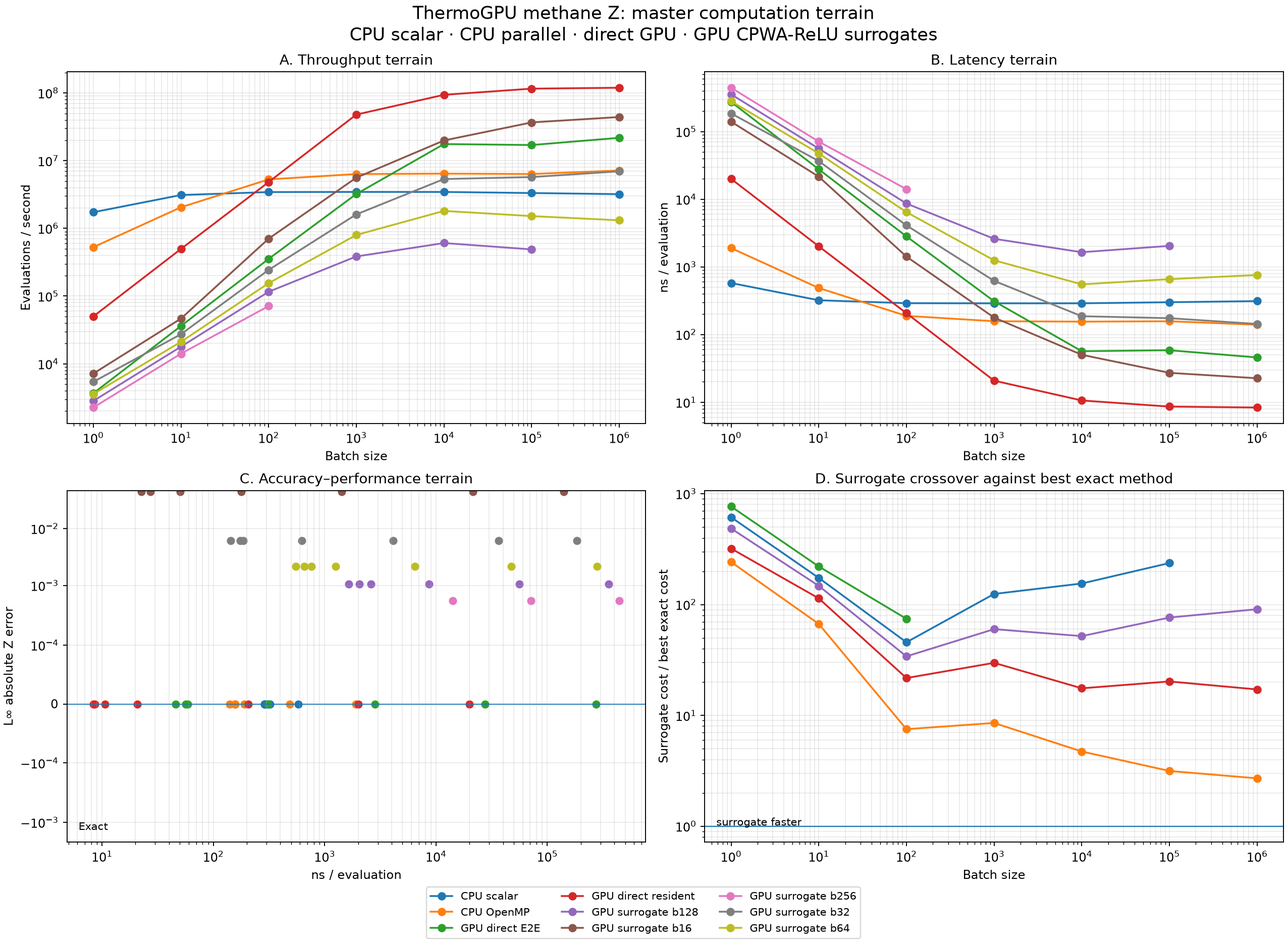
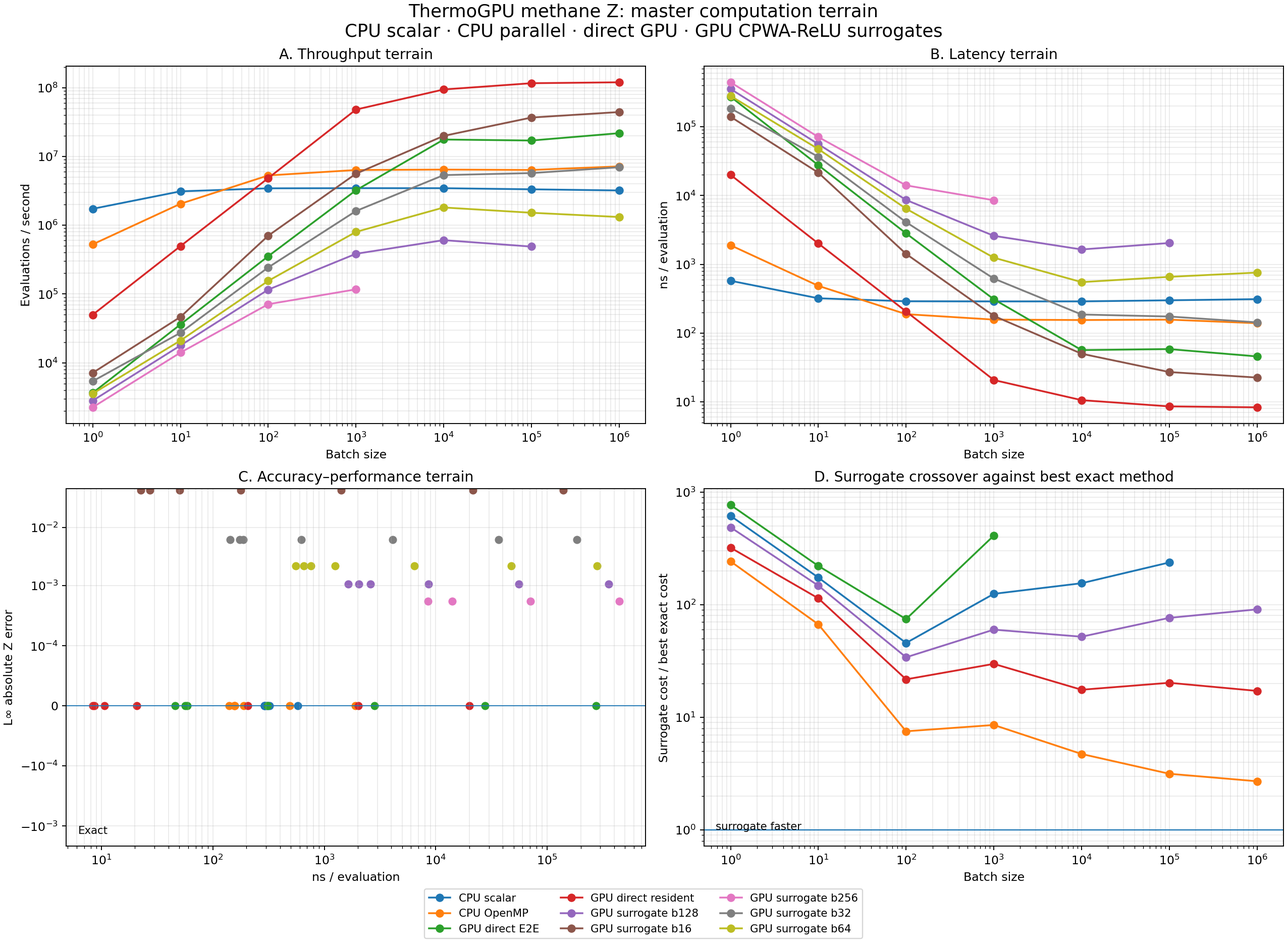
Complete ThermoGPU V1 report

diff --git a/case-studies/thermogpu/scripts/generate_report.py b/case-studies/thermogpu/scripts/generate_report.py
@@ -1,5 +1,5 @@
 #!/usr/bin/env python3
-"""Generate the ThermoGPU V1 report from retained processed evidence."""
+"""Generate the ThermoGPU V1 engineering report from retained derived evidence."""
 from __future__ import annotations
 
 import argparse
@@ -16,54 +16,111 @@ def read_csv(path: Path) -> list[dict[str, str]]:
         return list(csv.DictReader(f))
 
 
-def fmt(x: str | float, digits=4) -> str:
-    return f"{float(x):.{digits}g}"
+def fmt(value: str | float, digits: int = 4) -> str:
+    return f"{float(value):.{digits}g}"
+
+
+def yesno(value: bool) -> str:
+    return "yes" if value else "no"
 
 
 def main() -> None:
-    p = argparse.ArgumentParser()
+    p = argparse.ArgumentParser(description=__doc__)
     p.add_argument("--direct", type=Path, default=STUDY / "processed-results/direct-methane.csv")
     p.add_argument("--accuracy", type=Path, default=STUDY / "processed-results/surrogate-accuracy.csv")
-    p.add_argument("--performance", type=Path, default=STUDY / "processed-results/surrogate-performance.csv")
+    p.add_argument("--terrain", type=Path, default=STUDY / "processed-results/master-performance-terrain.csv")
+    p.add_argument("--feasibility", type=Path, default=STUDY / "processed-results/feasibility-analysis.csv")
+    p.add_argument("--summary", type=Path, default=STUDY / "processed-results/study-summary.json")
     p.add_argument("--environment", type=Path, default=STUDY / "raw-results/environment.json")
     p.add_argument("--output", type=Path, default=STUDY / "reports/thermogpu-v1.md")
     args = p.parse_args()
-    required = [args.direct, args.accuracy, args.performance, args.environment]
-    missing = [str(x) for x in required if not x.exists()]
+
+    required = [args.direct, args.accuracy, args.terrain, args.feasibility, args.summary, args.environment]
+    missing = [str(path) for path in required if not path.exists()]
     if missing:
         raise SystemExit("cannot generate complete report; missing:\n" + "\n".join(missing))
 
     direct = read_csv(args.direct)
     accuracy = read_csv(args.accuracy)
-    perf = read_csv(args.performance)
+    terrain = read_csv(args.terrain)
+    feasibility = read_csv(args.feasibility)
+    summary = json.loads(args.summary.read_text())
     env = json.loads(args.environment.read_text())
+
+    analysis = summary["analysis"]
+    conclusions = summary["conclusions"]
+    rep = conclusions["representation_scaling"]
+    acc_scale = conclusions["accuracy_cost_scaling"]
+    suff = conclusions["measurement_sufficiency"]
     repos = env.get("repositories", {})
+
+    surrogate_rows = [r for r in terrain if r["backend"] == "gpu_surrogate"]
+    measured = [r for r in feasibility if r["status"] == "complete"]
+    failures = [r for r in feasibility if r["status"] == "resource_failure"]
+    deferred = [r for r in feasibility if r["status"] == "deferred"]
 
     lines = [
         "# ThermoGPU Methane-Z Engineering Surrogate Case Study", "",
-        "> Generated from retained case-study evidence. Do not edit measured values by hand.", "",
-        "## Scope", "",
-        "This V1 study compares direct Peng–Robinson methane compressibility-factor evaluation with TDAR → simplicial CPWA → exact CPWA-ReLU surrogate evaluation over the frozen temperature/pressure domain.", "",
+        "> Generated from retained case-study evidence. Measured values and conclusions are derived; do not edit them by hand.", "",
+        "## Executive result", "",
+        "This V1 study tested whether an adaptively constructed TDAR simplicial CPWA surrogate, compiled to an exact CPWA-ReLU DAG and executed on the GPU, provides a computational advantage over direct Peng–Robinson methane compressibility-factor evaluation on the tested hardware and workload range.", "",
+        f"It did not. All **{conclusions['dominance_comparisons']}** measured surrogate operating points were dominated by the fastest exact method at the same batch size, and **{conclusions['surrogate_global_pareto_points']}** surrogate points appeared on the conventional global speed/error Pareto frontier. The result is therefore a negative performance result for this measured case, not a claim that CPWA surrogates are generally ineffective.", "",
+        "## Scope and frozen design", "",
+        "The study compares direct methane-Z evaluation with the pipeline **TDAR → simplicial CPWA → exact CPWA-ReLU DAG → GPU execution**. Surrogate budgets are 16, 32, 64, 128, and 256 points; benchmark batches are 1, 10, 100, 1,000, 10,000, 100,000, and 1,000,000 states. Accuracy is evaluated against the frozen common validation set.", "",
+        "The interpretation is empirical and restricted to the tested ThermoGPU methane-Z problem, domain, surrogate construction, execution policies, hardware, budgets, batches, and accuracy range. Fitted power-law exponents below describe measured-range trends; they are not asymptotic complexity theorems.", "",
         "## Frozen provenance", "",
         "| Repository | Version | Commit | Dirty |", "|---|---|---|---|",
     ]
     for name in ("ThermoGPU", "TDAR", "CPWA-ReLU", "case-study"):
         r = repos.get(name, {})
-        lines.append(f"| {name} | {r.get('describe','—')} | `{str(r.get('commit','—'))[:12]}` | {r.get('dirty','—')} |")
+        lines.append(f"| {name} | {r.get('describe', '—')} | `{str(r.get('commit', '—'))[:12]}` | {r.get('dirty', '—')} |")
 
-    lines += ["", "## Direct-model performance", "", "| Batch | Scalar ns/state | Best OpenMP ns/state | Threads | CUDA resident ns/state | CUDA end-to-end ns/state |", "|---:|---:|---:|---:|---:|---:|"]
-    for r in direct:
-        lines.append(f"| {r['batch']} | {fmt(r['scalar_ns'])} | {fmt(r['best_openmp_ns'])} | {r['best_openmp_threads']} | {fmt(r['cuda_resident_ns'])} | {fmt(r['cuda_e2e_ns'])} |")
+    lines += ["", "## Exact implementation crossover", "",
+              "The preferred exact implementation changes with workload size:", "",
+              "| Batch | Preferred exact method | ns/eval | Runner-up | Speedup vs runner-up |", "|---:|---|---:|---|---:|"]
+    for r in analysis["exact_crossover"]:
+        lines.append(f"| {r['batch_size']:,} | {r['preferred_exact_method']} | {fmt(r['ns_per_eval'])} | {r['runner_up']} | {fmt(r['speedup_vs_runner_up'])}× |")
+    lines += ["", "Scalar CPU is best at batches 1 and 10, OpenMP at 100, and resident direct GPU evaluation from batch 1,000 onward. At batch 1,000,000 the resident direct GPU reaches approximately " + fmt(analysis["exact_crossover"][-1]["evaluations_per_second"] / 1e6) + " million evaluations/s.", ""]
 
-    lines += ["", "## Surrogate accuracy", "", "| Budget | Simplices | RMSE | p99 abs. error | L∞ error | TDAR build s |", "|---:|---:|---:|---:|---:|---:|"]
+    lines += ["## Surrogate accuracy and representation growth", "",
+              "| Budget | Simplices | Total DAG nodes | RMSE | p99 abs. error | L∞ error |", "|---:|---:|---:|---:|---:|---:|"]
+    dag_by_budget = {int(r["budget"]): r for r in analysis["dag_scaling"]}
     for r in accuracy:
-        lines.append(f"| {r['budget']} | {r['simplices']} | {fmt(r['rmse'])} | {fmt(r['p99_abs'])} | {fmt(r['linf'])} | {fmt(r['tdar_seconds'])} |")
+        dag = dag_by_budget[int(r["budget"])]
+        lines.append(f"| {r['budget']} | {r['simplices']} | {dag['total_nodes']} | {fmt(r['rmse'])} | {fmt(r['p99_abs'])} | {fmt(r['linf'])} |")
+    lines += ["", f"Across the five measured budgets, simplices scale approximately as budget^{fmt(rep['simplices_vs_budget_exponent'])}, while total DAG nodes scale approximately as budget^{fmt(rep['total_nodes_vs_budget_exponent'])}. L∞ error scales approximately as budget^{fmt(acc_scale['linf_vs_budget_exponent'])}. Thus accuracy improves materially, but the exact DAG representation grows substantially faster than the simplex count.", "",
+              f"Measured steady-state execution time scales approximately as total_nodes^{fmt(rep['steady_state_time_vs_total_nodes_exponent'])} and as L∞^{fmt(acc_scale['steady_state_time_vs_linf_exponent'])} over this range. These are empirical fits only.", ""]
 
-    lines += ["", "## Exact CPWA-ReLU GPU performance", "", "The table below reports the empirically selected execution policy at each measured budget/batch operating point.", "", "| Budget | Batch | Policy | ns/eval | M eval/s |", "|---:|---:|---|---:|---:|"]
-    for r in sorted(perf, key=lambda x: (int(x['budget']), int(x['batch']))):
-        lines.append(f"| {r['budget']} | {r['batch']} | `{r['policy']}` | {fmt(r['ns_per_eval'])} | {float(r['evaluations_per_second'])/1e6:.4g} |")
+    lines += ["## Performance and Pareto result", "",
+              f"The unified terrain contains **{len(surrogate_rows)}** measured surrogate operating points. **{conclusions['measured_surrogate_points_dominated_by_best_exact_same_batch']}/{conclusions['dominance_comparisons']}** are dominated by the best exact method at the same batch size. The conventional global Pareto set contains **{conclusions['surrogate_global_pareto_points']}** surrogate points.", "",
+              "This means the surrogate does not buy speed in exchange for approximation error in the measured regime: an exact implementation is already faster at every directly compared workload size.", "",
+              "![Master performance terrain](../figures/master-performance-terrain.png)", "",
+              "![Batch-conditioned and conventional Pareto frontiers](../figures/pareto-frontier.png)", ""]
 
-    lines += ["", "## Figures", "", "![Direct throughput versus batch](../figures/direct-throughput-vs-batch.png)", "", "![Surrogate accuracy versus budget](../figures/surrogate-accuracy-vs-budget.png)", "", "![Exact CPWA-ReLU throughput versus batch](../figures/surrogate-throughput-vs-batch.png)", "", "## Reproduction", "", "Run the resumable local pipeline from the repository root:", "", "```bash", "python case-studies/thermogpu/scripts/run_study.py", "```", "", "GPU calibration and surrogate benchmarking deliberately use the CPWA-ReLU virtual-environment Python so the frozen GPU-enabled JAX installation is used. Completed stages are skipped unless `--force` is supplied.", ""]
+    lines += ["## Feasibility boundary and measurement sufficiency", "",
+              f"The frozen 5 × 7 design contains {analysis['measurement_total']} surrogate cells: **{len(measured)} complete**, **{len(failures)} documented resource failure**, and **{len(deferred)} explicitly deferred**.", ""]
+    if failures:
+        for r in failures:
+            lines.append(f"Budget {r['budget']} at batch {int(r['batch_size']):,} failed because of `{r['failure_kind']}` on `{r['hardware']}`; the retained failure record is `{r['evidence']}`.")
+        lines.append("")
+    if deferred:
+        cells = ", ".join(f"B{r['budget']}×{int(r['batch_size']):,}" for r in deferred)
+        lines += [f"The deliberately deferred cells are {cells}. They were not required to establish the V1 conclusion because every measured surrogate point was already dominated, no surrogate was globally Pareto-optimal, and no unclassified pending cells remained.", ""]
+    lines += [f"Measurement sufficiency for the current V1 conclusion: **{yesno(suff['sufficient_for_current_v1_conclusion'])}**. Additional measurements required for that conclusion: **{yesno(suff['additional_measurements_required_for_current_conclusion'])}**.", ""]
+
+    lines += ["## Engineering interpretation", "",
+              "The principal engineering result is that the direct evaluator is already sufficiently efficient that replacing it with this exact CPWA-ReLU realization does not reduce evaluation cost. Increasing surrogate accuracy increases simplicial and DAG complexity, and the execution cost rises enough to erase the usual motivation for a surrogate.", "",
+              "The negative result is useful because it identifies where future work should focus: not on assuming that approximation is faster, but on measuring the complete representation-and-execution chain and comparing it against the best workload-conditioned exact implementation. A different thermodynamic problem, dimensionality, hardware target, surrogate representation, or execution strategy may produce a different crossover.", "",
+              "## Limitations", "",
+              "V1 studies one methane compressibility-factor map on one measured hardware configuration. It does not establish asymptotic scaling, generalize the measured power-law fits beyond the sampled budgets, or prove that other EOS mixtures, higher-dimensional thermodynamic maps, alternative CPWA constructions, reduced DAG representations, accelerators, or execution policies cannot benefit from surrogates. The B256 large-batch cells were deliberately deferred after the V1 conclusion became measurement-sufficient.", "",
+              "## Supporting figures", "",
+              "![Direct throughput versus batch](../figures/direct-throughput-vs-batch.png)", "",
+              "![Surrogate accuracy versus budget](../figures/surrogate-accuracy-vs-budget.png)", "",
+              "## Reproduction", "",
+              "The scientific results, publication figures, analyses, and this report can be regenerated from retained experimental evidence without rerunning expensive evidence-producing GPU experiments:", "",
+              "```bash", "/nvme/Sync/cpwa-relu/.venv/bin/python \\", "  case-studies/thermogpu/scripts/run_study.py \\", "  --config case-studies/thermogpu/configs/study-v1.toml \\", "  --reproduce", "```", "",
+              "In reproduction mode, evidence-producing stages are retained and validated; derived processing, figures, Pareto construction, analysis, and report generation are rerun. Legacy surrogate-performance aggregate stages are intentionally omitted because the authoritative V1 performance analysis consumes the retained per-cell calibration evidence directly.", ""]
+
     args.output.parent.mkdir(parents=True, exist_ok=True)
     args.output.write_text("\n".join(lines))
     print(args.output)

diff --git a/tests/test_thermogpu_pipeline.py b/tests/test_thermogpu_pipeline.py
@@ -476,3 +476,47 @@ def test_legacy_surrogate_benchmark_is_not_required_reproduction_evidence():
         "legacy aggregate not required; authoritative performance evidence "
         "is retained by calibrate"
     ]
+
+
+def test_reproduction_pipeline_includes_master_figures_before_report():
+    m = load_module()
+
+    class Args:
+        config = ROOT / "case-studies/thermogpu/configs/study-v1.toml"
+        thermogpu_root = Path("/nvme/Sync/ThermoGPU")
+        tdar_root = Path("/nvme/Sync/tdar")
+        cpwa_relu_root = Path("/nvme/Sync/cpwa-relu")
+        cpwa_python = Path("/nvme/Sync/cpwa-relu/.venv/bin/python")
+        dtype = "float32"
+        repeats = 7
+        warmup = 2
+        calibration_seed = 20261004
+        benchmark_seed = 20261005
+
+    stages = m.build_stages(Args())
+    names = [stage.name for stage in stages]
+
+    assert names.index("master-pareto") < names.index("master-plot")
+    assert names.index("master-plot") < names.index("report")
+    assert names.index("pareto-plot") < names.index("report")
+    assert any(
+        str(path).endswith("master-performance-terrain.png")
+        for path in stages[names.index("master-plot")].outputs
+    )
+    assert any(
+        str(path).endswith("pareto-frontier.png")
+        for path in stages[names.index("pareto-plot")].outputs
+    )
+
+
+def test_report_generator_uses_authoritative_m12_outputs():
+    script = (
+        ROOT
+        / "case-studies/thermogpu/scripts/generate_report.py"
+    ).read_text()
+
+    assert "study-summary.json" in script
+    assert "master-performance-terrain.csv" in script
+    assert "feasibility-analysis.csv" in script
+    assert "surrogate-performance.csv" not in script
+    assert "--reproduce" in script

diff --git a/case-studies/thermogpu/scripts/run_study.py b/case-studies/thermogpu/scripts/run_study.py
@@ -103,6 +103,12 @@ def build_stages(args) -> list[Stage]:
         Stage("master-pareto", "construct the unified exact/surrogate performance terrain",
               [py, str(SCRIPTS / "process_master_pareto.py")],
               (PROCESSED / "master-performance-terrain.csv", PROCESSED / "master-pareto-global.csv", PROCESSED / "surrogate-pareto.csv")),
+        Stage("master-plot", "plot the unified exact/surrogate performance terrain",
+              [py, str(SCRIPTS / "plot_master_pareto.py")],
+              (FIGURES / "master-performance-terrain.png",)),
+        Stage("pareto-plot", "plot batch-conditioned and conventional Pareto frontiers",
+              [py, str(SCRIPTS / "plot_pareto_frontier.py")],
+              (FIGURES / "pareto-frontier.png",)),
         Stage("analysis", "derive crossover, accuracy-cost, dominance, DAG-scaling, and feasibility results",
               [py, str(SCRIPTS / "analyze_study.py")],
               (PROCESSED / "exact-crossover.csv", PROCESSED / "surrogate-accuracy-cost.csv", PROCESSED / "dominance-analysis.csv", PROCESSED / "dag-scaling.csv", PROCESSED / "scaling-analysis.csv", PROCESSED / "feasibility-analysis.csv", PROCESSED / "study-summary.json")),

diff --git a/case-studies/thermogpu/reports/thermogpu-v1.md b/case-studies/thermogpu/reports/thermogpu-v1.md
@@ -1,0 +1,103 @@
+# ThermoGPU Methane-Z Engineering Surrogate Case Study
+
+> Generated from retained case-study evidence. Measured values and conclusions are derived; do not edit them by hand.
+
+## Executive result
+
+This V1 study tested whether an adaptively constructed TDAR simplicial CPWA surrogate, compiled to an exact CPWA-ReLU DAG and executed on the GPU, provides a computational advantage over direct Peng–Robinson methane compressibility-factor evaluation on the tested hardware and workload range.
+
+It did not. All **31** measured surrogate operating points were dominated by the fastest exact method at the same batch size, and **0** surrogate points appeared on the conventional global speed/error Pareto frontier. The result is therefore a negative performance result for this measured case, not a claim that CPWA surrogates are generally ineffective.
+
+## Scope and frozen design
+
+The study compares direct methane-Z evaluation with the pipeline **TDAR → simplicial CPWA → exact CPWA-ReLU DAG → GPU execution**. Surrogate budgets are 16, 32, 64, 128, and 256 points; benchmark batches are 1, 10, 100, 1,000, 10,000, 100,000, and 1,000,000 states. Accuracy is evaluated against the frozen common validation set.
+
+The interpretation is empirical and restricted to the tested ThermoGPU methane-Z problem, domain, surrogate construction, execution policies, hardware, budgets, batches, and accuracy range. Fitted power-law exponents below describe measured-range trends; they are not asymptotic complexity theorems.
+
+## Frozen provenance
+
+| Repository | Version | Commit | Dirty |
+|---|---|---|---|
+| ThermoGPU | v1.1.0 | `180bbcb0eb70` | False |
+| TDAR | v0.3.0 | `527144927bda` | False |
+| CPWA-ReLU | v0.2.0 | `6ac34968992a` | False |
+| case-study | thermogpu-spec-v1-1-gf83f38f | `f83f38f07ed5` | True |
+
+## Exact implementation crossover
+
+The preferred exact implementation changes with workload size:
+
+| Batch | Preferred exact method | ns/eval | Runner-up | Speedup vs runner-up |
+|---:|---|---:|---|---:|
+| 1 | CPU scalar | 577.1 | CPU OpenMP | 3.284× |
+| 10 | CPU scalar | 321.3 | CPU OpenMP | 1.517× |
+| 100 | CPU OpenMP | 188.8 | GPU direct resident | 1.095× |
+| 1,000 | GPU direct resident | 20.82 | CPU OpenMP | 7.557× |
+| 10,000 | GPU direct resident | 10.62 | GPU direct E2E | 5.342× |
+| 100,000 | GPU direct resident | 8.615 | GPU direct E2E | 6.806× |
+| 1,000,000 | GPU direct resident | 8.353 | GPU direct E2E | 5.492× |
+
+Scalar CPU is best at batches 1 and 10, OpenMP at 100, and resident direct GPU evaluation from batch 1,000 onward. At batch 1,000,000 the resident direct GPU reaches approximately 119.7 million evaluations/s.
+
+## Surrogate accuracy and representation growth
+
+| Budget | Simplices | Total DAG nodes | RMSE | p99 abs. error | L∞ error |
+|---:|---:|---:|---:|---:|---:|
+| 16 | 26 | 101 | 0.005051 | 0.02466 | 0.04457 |
+| 32 | 52 | 462 | 0.001287 | 0.003605 | 0.006192 |
+| 64 | 108 | 1826 | 0.0005389 | 0.001528 | 0.002171 |
+| 128 | 221 | 6383 | 0.0002588 | 0.0007616 | 0.001061 |
+| 256 | 464 | 24706 | 0.0001106 | 0.0003247 | 0.0005366 |
+
+Across the five measured budgets, simplices scale approximately as budget^1.04, while total DAG nodes scale approximately as budget^1.966. L∞ error scales approximately as budget^-1.53. Thus accuracy improves materially, but the exact DAG representation grows substantially faster than the simplex count.
+
+Measured steady-state execution time scales approximately as total_nodes^0.6741 and as L∞^-0.8245 over this range. These are empirical fits only.
+
+## Performance and Pareto result
+
+The unified terrain contains **31** measured surrogate operating points. **31/31** are dominated by the best exact method at the same batch size. The conventional global Pareto set contains **0** surrogate points.
+
+This means the surrogate does not buy speed in exchange for approximation error in the measured regime: an exact implementation is already faster at every directly compared workload size.
+
+![Master performance terrain](../figures/master-performance-terrain.png)
+
+![Batch-conditioned and conventional Pareto frontiers](../figures/pareto-frontier.png)
+
+## Feasibility boundary and measurement sufficiency
+
+The frozen 5 × 7 design contains 35 surrogate cells: **31 complete**, **1 documented resource failure**, and **3 explicitly deferred**.
+
+Budget 128 at batch 1,000,000 failed because of `gpu_memory` on `gpu:cuda:0`; the retained failure record is `case-studies/thermogpu/raw-results/surrogate-performance/budget-128/calibration/float32-b1000000.failed.json`.
+
+The deliberately deferred cells are B256×10,000, B256×100,000, B256×1,000,000. They were not required to establish the V1 conclusion because every measured surrogate point was already dominated, no surrogate was globally Pareto-optimal, and no unclassified pending cells remained.
+
+Measurement sufficiency for the current V1 conclusion: **yes**. Additional measurements required for that conclusion: **no**.
+
+## Engineering interpretation
+
+The principal engineering result is that the direct evaluator is already sufficiently efficient that replacing it with this exact CPWA-ReLU realization does not reduce evaluation cost. Increasing surrogate accuracy increases simplicial and DAG complexity, and the execution cost rises enough to erase the usual motivation for a surrogate.
+
+The negative result is useful because it identifies where future work should focus: not on assuming that approximation is faster, but on measuring the complete representation-and-execution chain and comparing it against the best workload-conditioned exact implementation. A different thermodynamic problem, dimensionality, hardware target, surrogate representation, or execution strategy may produce a different crossover.
+
+## Limitations
+
+V1 studies one methane compressibility-factor map on one measured hardware configuration. It does not establish asymptotic scaling, generalize the measured power-law fits beyond the sampled budgets, or prove that other EOS mixtures, higher-dimensional thermodynamic maps, alternative CPWA constructions, reduced DAG representations, accelerators, or execution policies cannot benefit from surrogates. The B256 large-batch cells were deliberately deferred after the V1 conclusion became measurement-sufficient.
+
+## Supporting figures
+
+![Direct throughput versus batch](../figures/direct-throughput-vs-batch.png)
+
+![Surrogate accuracy versus budget](../figures/surrogate-accuracy-vs-budget.png)
+
+## Reproduction
+
+The scientific results, publication figures, analyses, and this report can be regenerated from retained experimental evidence without rerunning expensive evidence-producing GPU experiments:
+
+```bash
+/nvme/Sync/cpwa-relu/.venv/bin/python \
+  case-studies/thermogpu/scripts/run_study.py \
+  --config case-studies/thermogpu/configs/study-v1.toml \
+  --reproduce
+```
+
+In reproduction mode, evidence-producing stages are retained and validated; derived processing, figures, Pareto construction, analysis, and report generation are rerun. Legacy surrogate-performance aggregate stages are intentionally omitted because the authoritative V1 performance analysis consumes the retained per-cell calibration evidence directly.

diff --git a/case-studies/thermogpu/MILESTONES.md b/case-studies/thermogpu/MILESTONES.md
@@ -25,10 +25,10 @@ infeasible or cannot materially affect the conclusions.
 | M8 | Automate experiment pipeline | Complete | Resumable `scripts/run_study.py` |
 | M9 | Construct master performance terrain | Complete | CPU, parallel CPU, direct GPU, GPU surrogates |
 | M10 | Define Pareto analyses | Complete | Batch-conditioned and conventional frontiers |
-| M11 | Produce publication-quality figures | Near complete | Performance/Pareto figures |
+| M11 | Produce publication-quality figures | Complete | Direct, accuracy, master-terrain, and Pareto figures are reproducible pipeline outputs |
 | M12 | Interpret engineering results | Complete | Automated crossover, accuracy-cost, dominance, empirical scaling, feasibility boundary, and V1 conclusion generation |
 | M13 | Perform final reproducibility run | Complete | Retained evidence regenerated all V1 scientific results through M12 analysis; processed data were unchanged and regenerated figures were pixel-identical |
-| M14 | Generate V1 report | Pending | Reproducible Markdown report |
+| M14 | Generate V1 report | Complete | Generated Markdown report consumes authoritative M12 analysis and reproducible publication figures |
 | M15 | Freeze V1 release | Pending | Clean repository, commit, tag |
 
 ## Frontier terminology
@@ -201,6 +201,18 @@ The reproduced engineering conclusion remained:
 
 The reproduction run does not rerun expensive experimental measurements merely
 to reproduce derived scientific conclusions.
+
+## M14 — V1 report result
+
+The V1 report is generated from the authoritative processed evidence and M12
+`study-summary.json`; it no longer depends on the legacy surrogate-performance
+aggregate. The reproduction pipeline now regenerates the master performance
+terrain and Pareto figures before regenerating the report.
+
+The report records the frozen design, exact-method crossover, surrogate accuracy
+and representation scaling, dominance and Pareto results, feasibility boundary,
+measurement sufficiency, engineering interpretation, limitations, and the
+evidence-only reproduction command.
 
 ## V1 exit criteria
 
